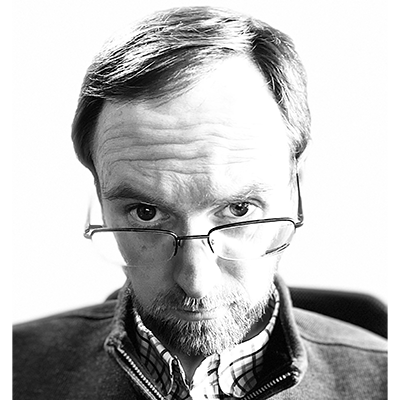
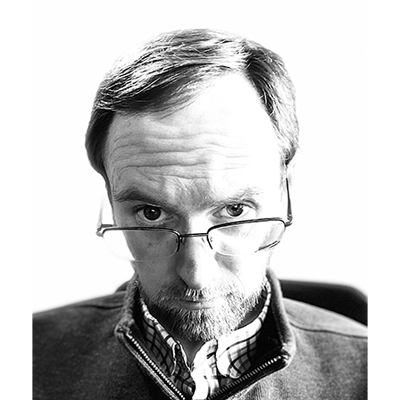
feat: add hank's photo

diff --git a/src/data/staff.ts b/src/data/staff.ts
@@ -15,7 +15,7 @@ export const staff = [
     email: 'nathankota@utah.gov',
     twitter: '@nathankota',
     photo: 'nathan-kota.png',
-    tags: ['new projects', 'collaboration', 'partnerships', 'budgets', 'ongoing support'],
+    tags: ['collaboration', 'partnerships', 'budgets', 'new projects', 'ongoing support'],
   },
   {
     name: 'Zach Beck',
@@ -58,7 +58,7 @@ export const staff = [
     email: 'sgourley@utah.gov',
     twitter: '@steve_ugrc',
     photo: 'steve-gourley.png',
-    tags: ['web development', 'google cloud', 'geocoding', 'web services', 'data management'],
+    tags: ['Apps', 'Web Development', 'Programming', 'Google Cloud', 'Geocoding',],
   },
   {
     name: 'Jake Adams',
@@ -67,7 +67,7 @@ export const staff = [
     email: 'jdadams@utah.gov',
     twitter: '@gis_jake',
     photo: 'jake-adams.png',
-    tags: ['Discover', 'configurable apps', 'python', 'AGOL', 'ArcGIS Hub'],
+    tags: ['Configurable Apps', 'Discover', 'Python', 'AGOL', 'ArcGIS Hub'],
   },
   {
     name: 'Sean Fernandez',
@@ -75,7 +75,7 @@ export const staff = [
     phone: '801-209-9359',
     email: 'sfernandez@utah.gov',
     twitter: '@UTSurveyor',
-    tags: ['survey control', 'PLSS monuments', 'GPS', 'NGS State Coordinator', 'spatial reference'],
+    tags: ['PLSS monuments', 'Survey Control', 'GPS', 'NGS State Coordinator', 'Spatial Reference'],
   },
   {
     name: 'Hank Chou',
@@ -83,7 +83,8 @@ export const staff = [
     phone: '435-319-0307',
     email: 'hchou@utah.gov',
     twitter: '',
-    tags: ['911', 'PSAP support', 'data management', 'Motorola systems'],
+    photo: 'hank-chou.png',
+    tags: ['PSAP support', 'Open Source', 'ArcGIS Pro', 'Data ETL', '911',],
   },
   {
     name: 'Rick Kelson',
@@ -92,7 +93,7 @@ export const staff = [
     email: 'rkelson@utah.gov',
     twitter: '@RickUGRC',
     photo: 'rick-kelson.png',
-    tags: ['Discover', 'LiDAR', 'parcels', 'Imagery', 'data management'],
+    tags: ['Discover', 'LiDAR', 'Imagery', 'parcels', 'data management'],
   },
   {
     name: 'Denise Peterson',
